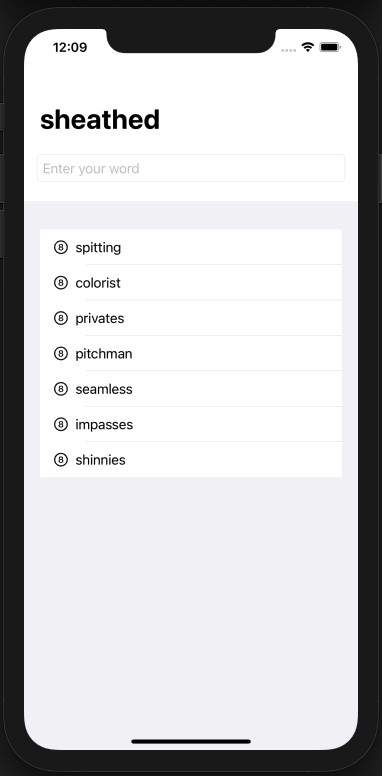
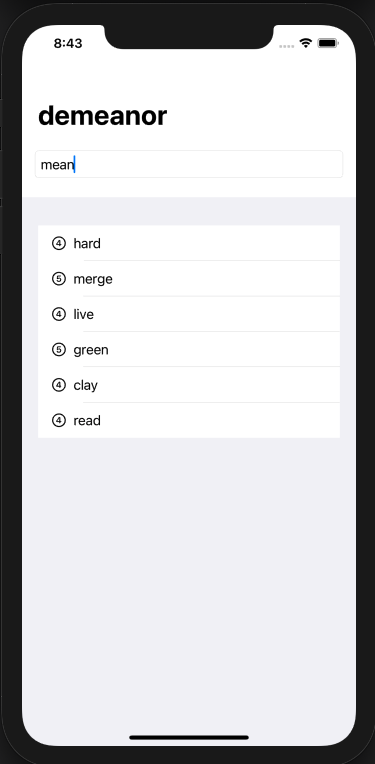
Word Scramble Project completed || Day 31 completed.

diff --git a/07-Project5/WordScramble/WordScramble/ViewModel/HomeViewModel.swift b/07-Project5/WordScramble/WordScramble/ViewModel/HomeViewModel.swift
@@ -14,6 +14,9 @@ class HomeViewModel: ObservableObject {
     @Published var newWord: String = ""
     @Published var wordError: WordErrorModel = WordErrorModel()
     
+    // Challange 1
+    private let minWordLength = 3
+    
     var textFieldPlaceHolderText: String {
         "Enter your word"
     }
@@ -30,7 +33,20 @@ class HomeViewModel: ObservableObject {
         wordError.message
     }
     
+    // Challange 3
+    var score: Int {
+        var count = 0
+        for word in usedWords {
+            count += word.count
+        }
+        return count
+    }
+    
     func startGame() {
+        
+        // Challange 2
+        
+        usedWords.removeAll()
         
         guard let textFileURL = Bundle.main.url(forResource: "start", withExtension: "txt") else {
             fatalError("Could not load start.txt from bundle.")
@@ -64,9 +80,14 @@ class HomeViewModel: ObservableObject {
             return
         }
         
+        // Challange 1
+        guard isLongEnough(word: word) else {
+            wordError = WordErrorModel("Word too short", "Words must be \(minWordLength) letters at least", true)
+            return
+        }
+        
         usedWords.insert(word, at: 0)
         newWord = ""
-        startGame()
     }
 }
 
@@ -93,5 +114,10 @@ extension HomeViewModel {
         let range = NSRange(location: 0, length: word.utf16.count)
         let misspelledRange = checker.rangeOfMisspelledWord(in: word, range: range, startingAt: 0, wrap: false, language: "en")
         return misspelledRange.location == NSNotFound
+    }
+    
+    // Challange 1
+    private func isLongEnough(word: String) -> Bool {
+        return word.count >= minWordLength
     }
 }

diff --git a/07-Project5/WordScramble/WordScramble/View/Home.swift b/07-Project5/WordScramble/WordScramble/View/Home.swift
@@ -26,8 +26,14 @@ struct Home: View {
                     Image(systemName: "\($0.count).circle")
                     Text($0)
                 }
+                // Challange 3
+                Text("Score \(homeViewModel.score)")
             }
             .navigationBarTitle(homeViewModel.title)
+            // Challange 2
+            .navigationBarItems(leading: Button("New Game") {
+                self.homeViewModel.startGame()
+            })
         }
         .onAppear {
             homeViewModel.startGame()

diff --git a/README.md b/README.md
@@ -1,5 +1,5 @@
 ![Header](https://img.shields.io/badge/platform-iOS-lightgrey.svg)
-![Header](https://img.shields.io/badge/completion-28/100-green.svg)
+![Header](https://img.shields.io/badge/completion-31/100-green.svg)
 
 # 100DaysOfSwiftUI
 100 Days Of SwiftUI Challenge by Paul Hudson -> https://www.hackingwithswift.com/100/swiftui
@@ -244,3 +244,17 @@ REVIEW DAY
 #
 - [x] <b>Day 28</b>
 * BetterRest: coreML project - *Challenges
+
+
+#
+- [x] <b>Day 29</b>
+* Word Scramble
+
+#
+- [x] <b>Day 30</b>
+* Word Scramble
+
+
+#
+- [x] <b>Day 31</b>
+* Word Scramble - *Challenges

diff --git a/07-Project5/WordScramble/README.md b/07-Project5/WordScramble/README.md
@@ -18,3 +18,4 @@ From [Hacking with Swift](https://www.hackingwithswift.com/books/ios-swiftui/wor
 ## Screenshots
 
 ![screenshot1](screenshots/screen01.png)
+![screenshot1](screenshots/screen02.png)
